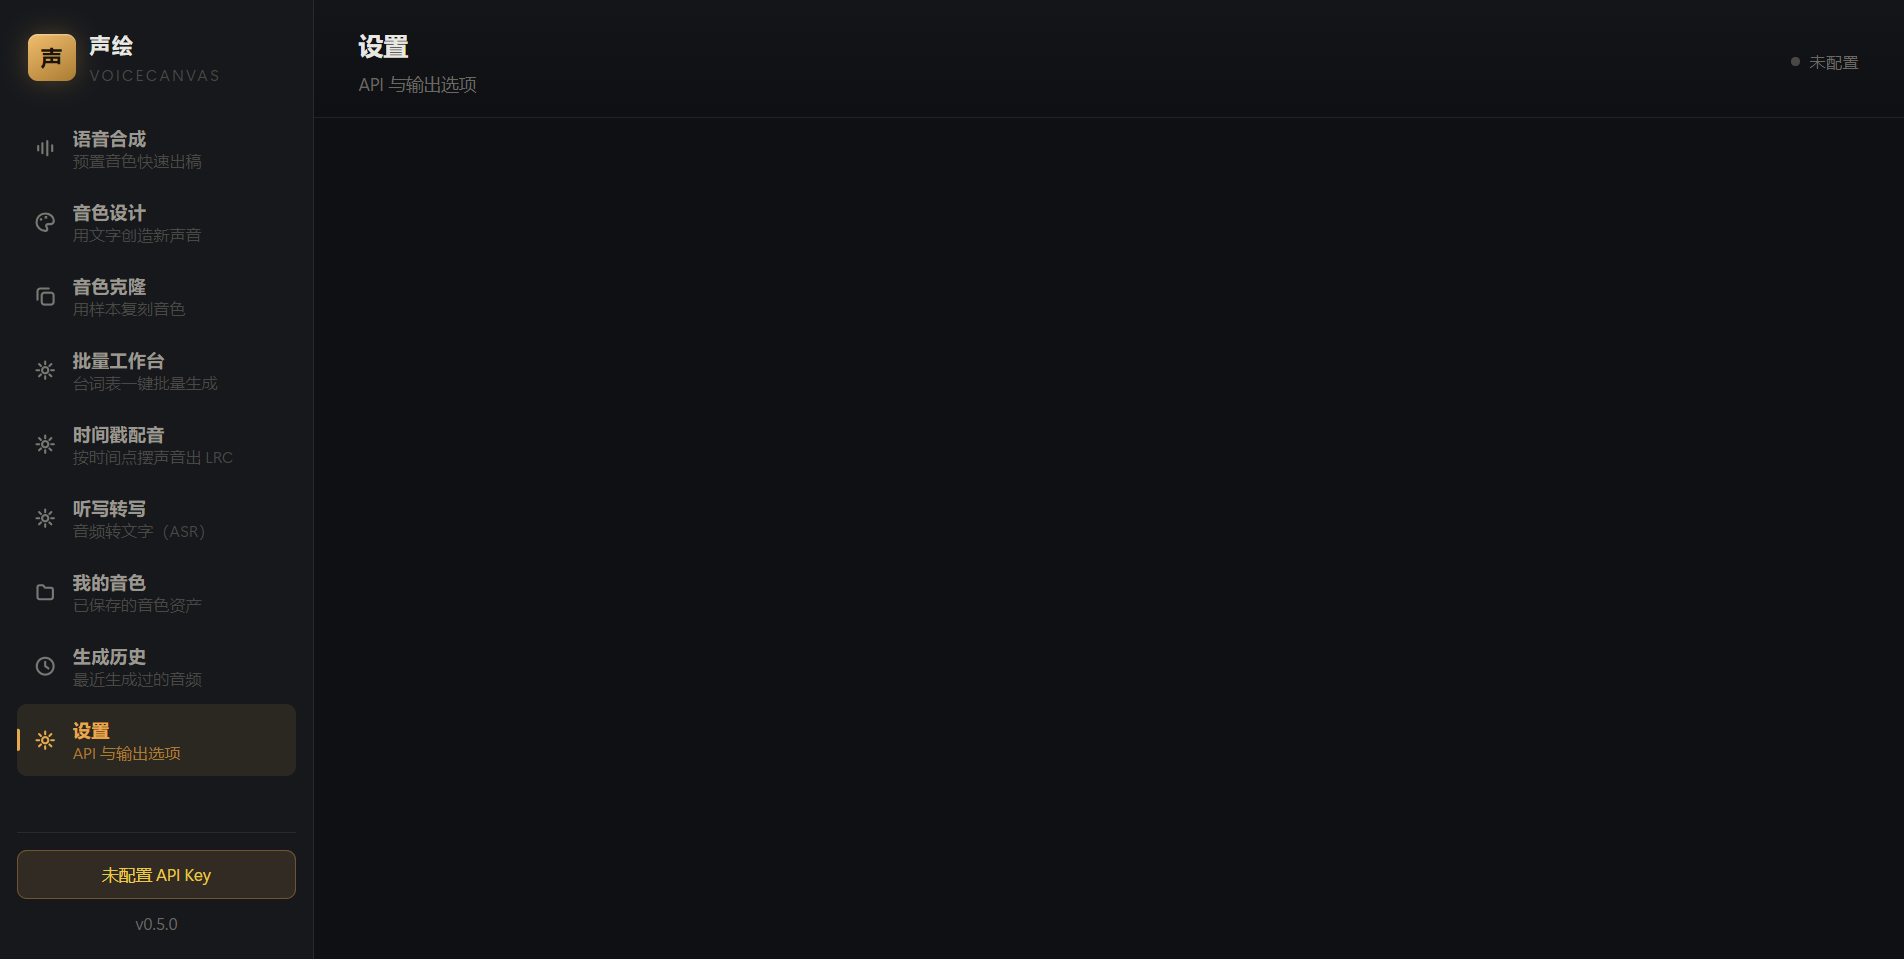
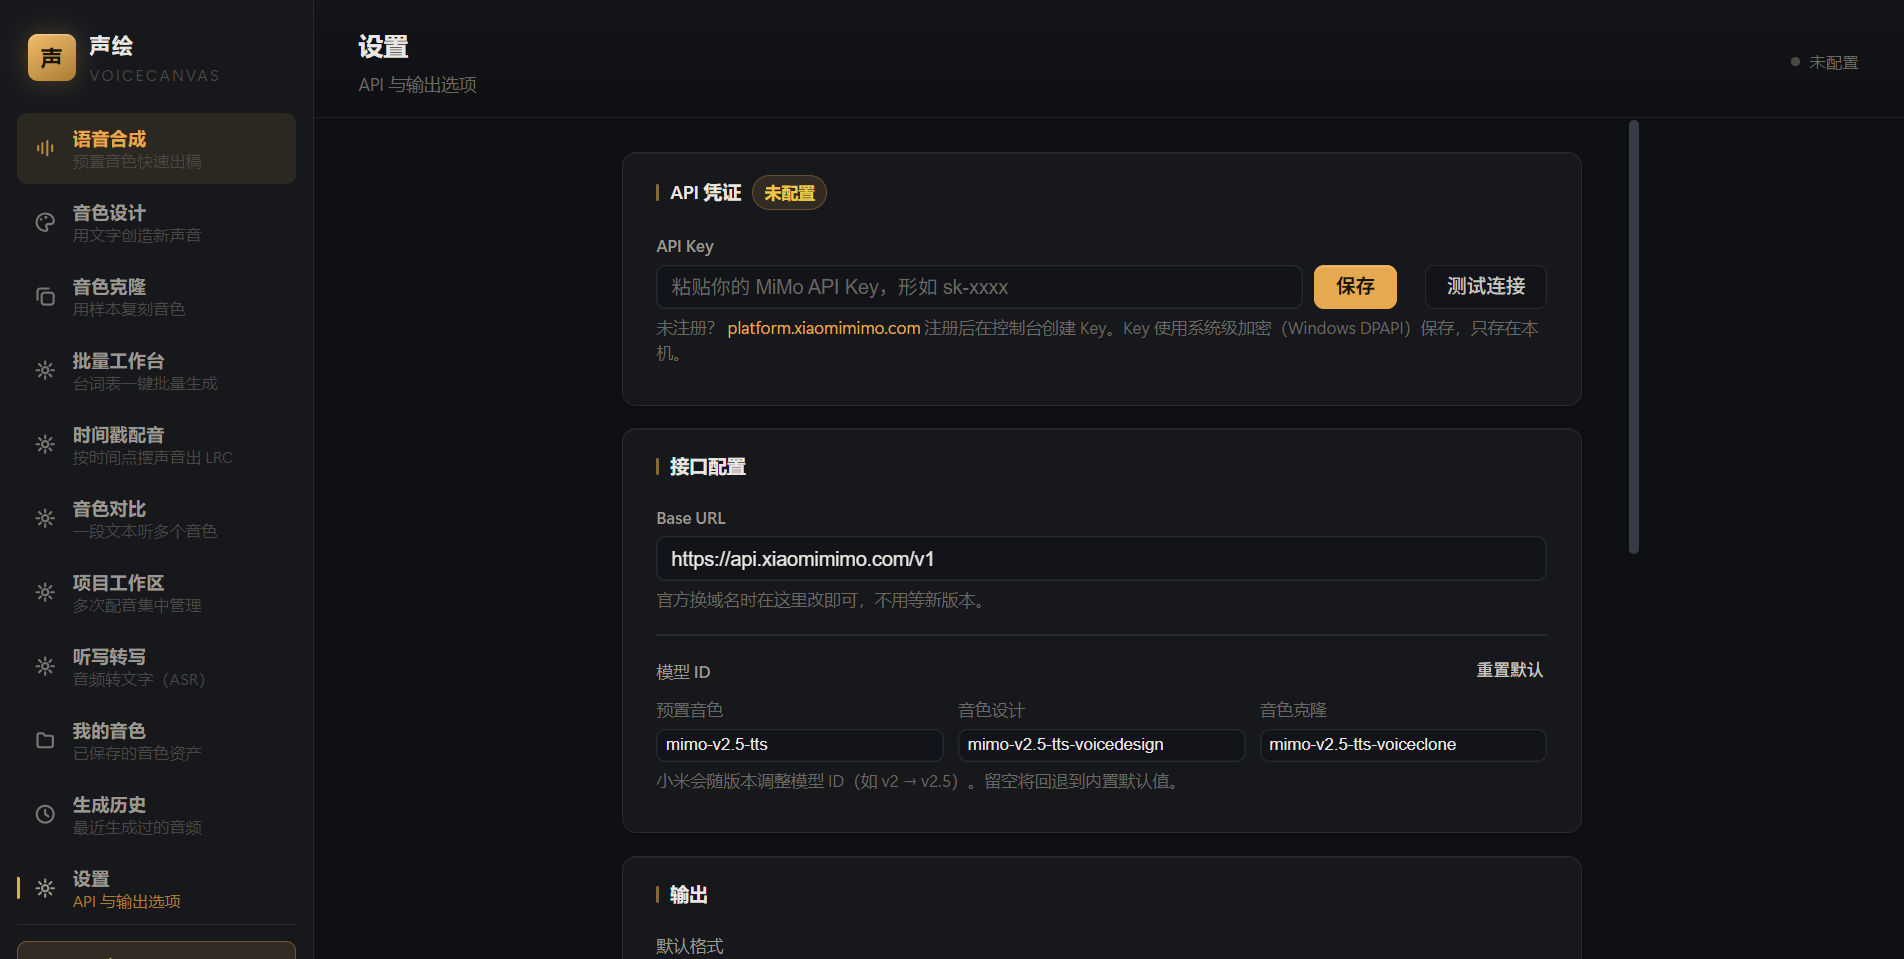
feat: 用量统计 + 设置页健壮性修复
- 设置页新增用量统计：生成次数、累计 Token、音频总量、按模式分布
- 修复设置页 IPC 失败导致整页白屏的问题：改用默认值兜底并提示
  （这是一次真实健壮性提升，异常路径也能正常渲染界面）

diff --git a/src/renderer/src/views/SettingsView.vue b/src/renderer/src/views/SettingsView.vue
@@ -1,4 +1,4 @@
-<script setup lang="ts">
+<script setup lang="ts">
 /**
  * 设置页：API Key、Base URL、模型 ID、输出选项。
  *
@@ -8,7 +8,7 @@
 import { ref, onMounted } from 'vue'
 import { ElMessage, ElMessageBox } from 'element-plus'
 import type { AppSettings, AudioFormat } from '../../../shared/types'
-import { DEFAULT_MODELS } from '../../../shared/constants'
+import { DEFAULT_MODELS, DEFAULT_BASE_URL } from '../../../shared/constants'
 
 const emit = defineEmits<{ (e: 'saved'): void }>()
 
@@ -23,9 +23,21 @@ const serverModels = ref<string[]>([])
 onMounted(async () => {
   try {
     settings.value = await window.vc.settings.get()
+  } catch (e) {
+    // IPC 不可用时给一份可用默认值，避免整页白屏
+    settings.value = {
+      providerId: 'mimo',
+      baseUrl: DEFAULT_BASE_URL,
+      models: { ...DEFAULT_MODELS },
+      defaultFormat: 'wav',
+      outputDir: '',
+      hasApiKey: false,
+    }
+    ElMessage.warning('读取设置失败，已使用默认值')
   } finally {
     loading.value = false
   }
+  void loadUsage()
 })
 
 async function saveKey() {
@@ -114,6 +126,52 @@ const formatOptions: Array<{ value: AudioFormat; label: string }> = [
   { value: 'wav', label: 'WAV（无损，体积大）' },
   { value: 'mp3', label: 'MP3（压缩，体积小）' },
 ]
+
+// ---------- 用量统计 ----------
+const usage = ref<{
+  total: number
+  tokens: number
+  bytes: number
+  byMode: Array<{ mode: string; label: string; count: number }>
+} | null>(null)
+
+const MODE_LABEL: Record<string, string> = {
+  preset: '预置音色',
+  design: '音色设计',
+  clone: '音色克隆',
+}
+
+async function loadUsage() {
+  try {
+    const records = await window.vc.history.list()
+    if (!records.length) {
+      usage.value = null
+      return
+    }
+    const byModeMap = new Map<string, number>()
+    let tokens = 0
+    let bytes = 0
+    for (const r of records) {
+      bytes += r.bytes || 0
+      tokens += r.usage?.totalTokens || 0
+      byModeMap.set(r.mode, (byModeMap.get(r.mode) || 0) + 1)
+    }
+    usage.value = {
+      total: records.length,
+      tokens,
+      bytes,
+      byMode: Array.from(byModeMap.entries()).map(([mode, count]) => ({
+        mode,
+        label: MODE_LABEL[mode] || mode,
+        count,
+      })),
+    }
+  } catch {
+    usage.value = null
+  }
+}
+
+
 </script>
 
 <template>
@@ -231,10 +289,39 @@ const formatOptions: Array<{ value: AudioFormat; label: string }> = [
         </el-button>
       </section>
 
+      <!-- 用量统计 -->
+      <section class="vc-card">
+        <h3 class="vc-card-title">
+          用量统计
+          <span class="vc-spacer" />
+          <el-button size="small" link @click="loadUsage">刷新</el-button>
+        </h3>
+        <div v-if="usage" class="usage-grid">
+          <div class="usage-item">
+            <span class="usage-num vc-num">{{ usage.total }}</span>
+            <span class="usage-label">生成次数</span>
+          </div>
+          <div class="usage-item">
+            <span class="usage-num vc-num">{{ usage.tokens.toLocaleString() }}</span>
+            <span class="usage-label">累计 Token</span>
+          </div>
+          <div class="usage-item">
+            <span class="usage-num vc-num">{{ (usage.bytes / 1024 / 1024).toFixed(1) }}</span>
+            <span class="usage-label">音频总量 (MB)</span>
+          </div>
+        </div>
+        <div v-if="usage" class="usage-modes">
+          <span v-for="m in usage.byMode" :key="m.mode" class="usage-mode">
+            {{ m.label }} <b class="vc-num">{{ m.count }}</b>
+          </span>
+        </div>
+        <p v-else class="vc-hint">还没有生成记录。</p>
+      </section>
+
       <!-- 关于 -->
       <section class="vc-card about">
         <h3 class="vc-card-title">关于</h3>
-        <p class="about-line"><strong>声绘 VoiceCanvas</strong> v0.1.0</p>
+        <p class="about-line"><strong>声绘 VoiceCanvas</strong> v0.5.0</p>
         <p class="about-line vc-muted">
           第三方非官方客户端，与小米公司无隶属关系。MiMo 语音合成服务由小米 MiMo 开放平台提供，
           使用前请遵守其服务条款。
@@ -320,4 +407,43 @@ const formatOptions: Array<{ value: AudioFormat; label: string }> = [
   margin: 0 0 6px;
   line-height: 1.7;
 }
-</style>
+
+/* ---------- 用量统计 ---------- */
+.usage-grid {
+  display: grid;
+  grid-template-columns: repeat(3, 1fr);
+  gap: 16px;
+  margin-bottom: 14px;
+}
+
+.usage-item {
+  display: flex;
+  flex-direction: column;
+  gap: 2px;
+}
+
+.usage-num {
+  font-size: 24px;
+  font-weight: 640;
+  color: var(--vc-accent);
+  letter-spacing: -0.02em;
+  line-height: 1.1;
+}
+
+.usage-label {
+  font-size: 11.5px;
+  color: var(--vc-text-muted);
+}
+
+.usage-modes {
+  display: flex;
+  gap: 14px;
+  flex-wrap: wrap;
+  font-size: 12px;
+  color: var(--vc-text-secondary);
+}
+
+.usage-mode b {
+  color: var(--vc-text-primary);
+  font-weight: 600;
+}</style>
